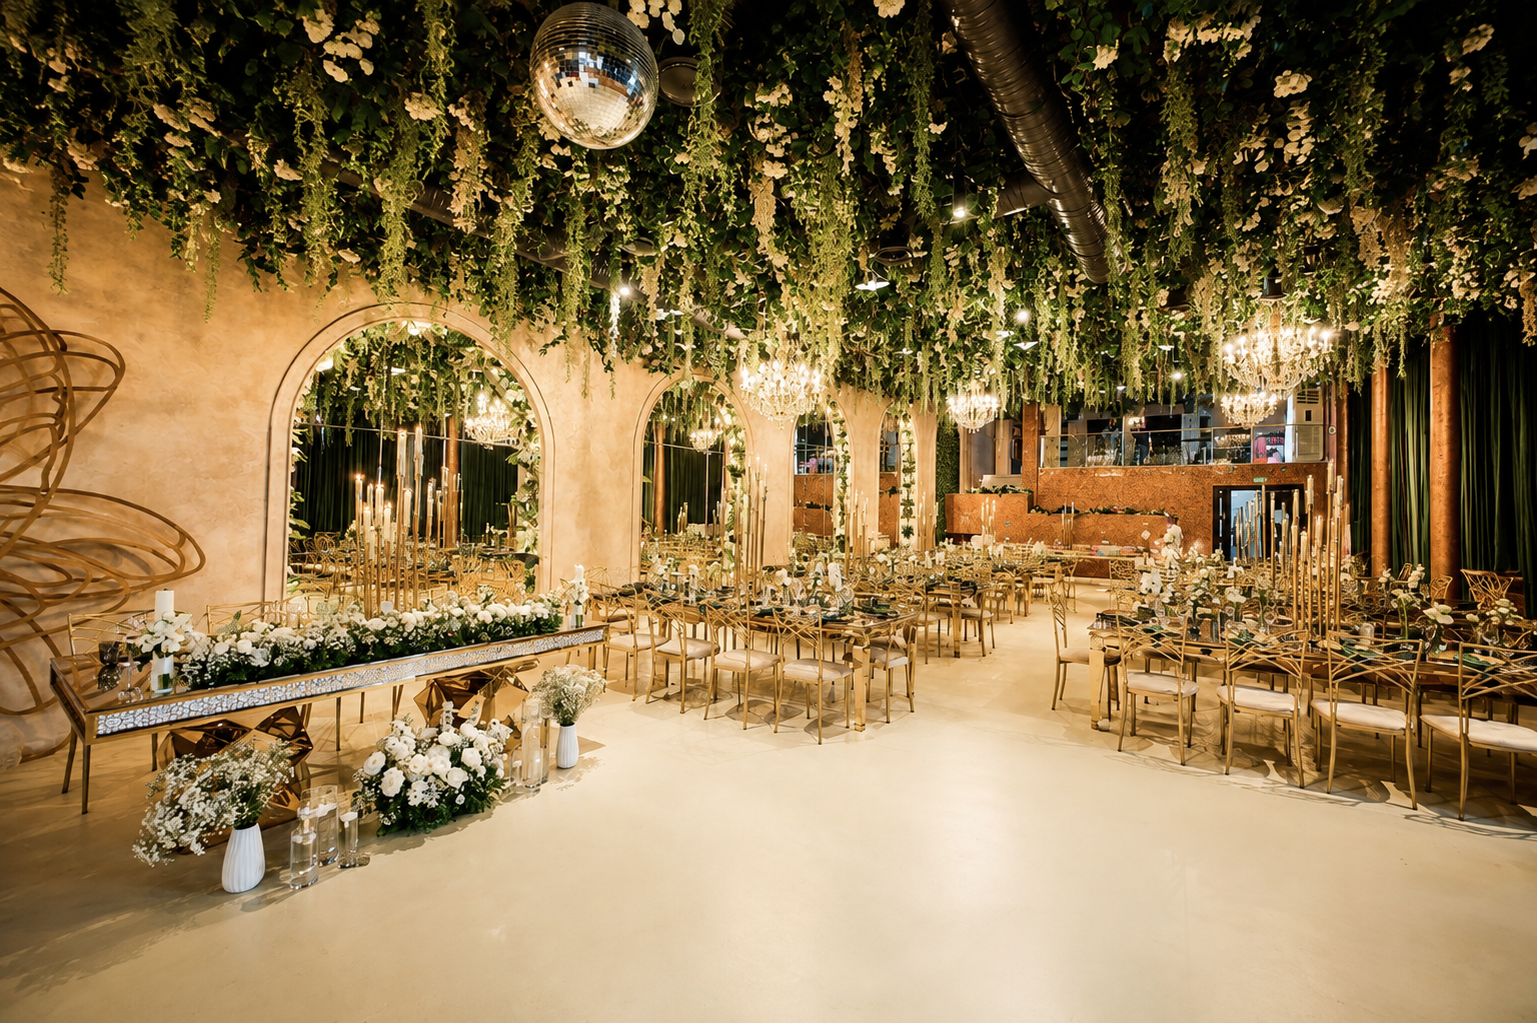
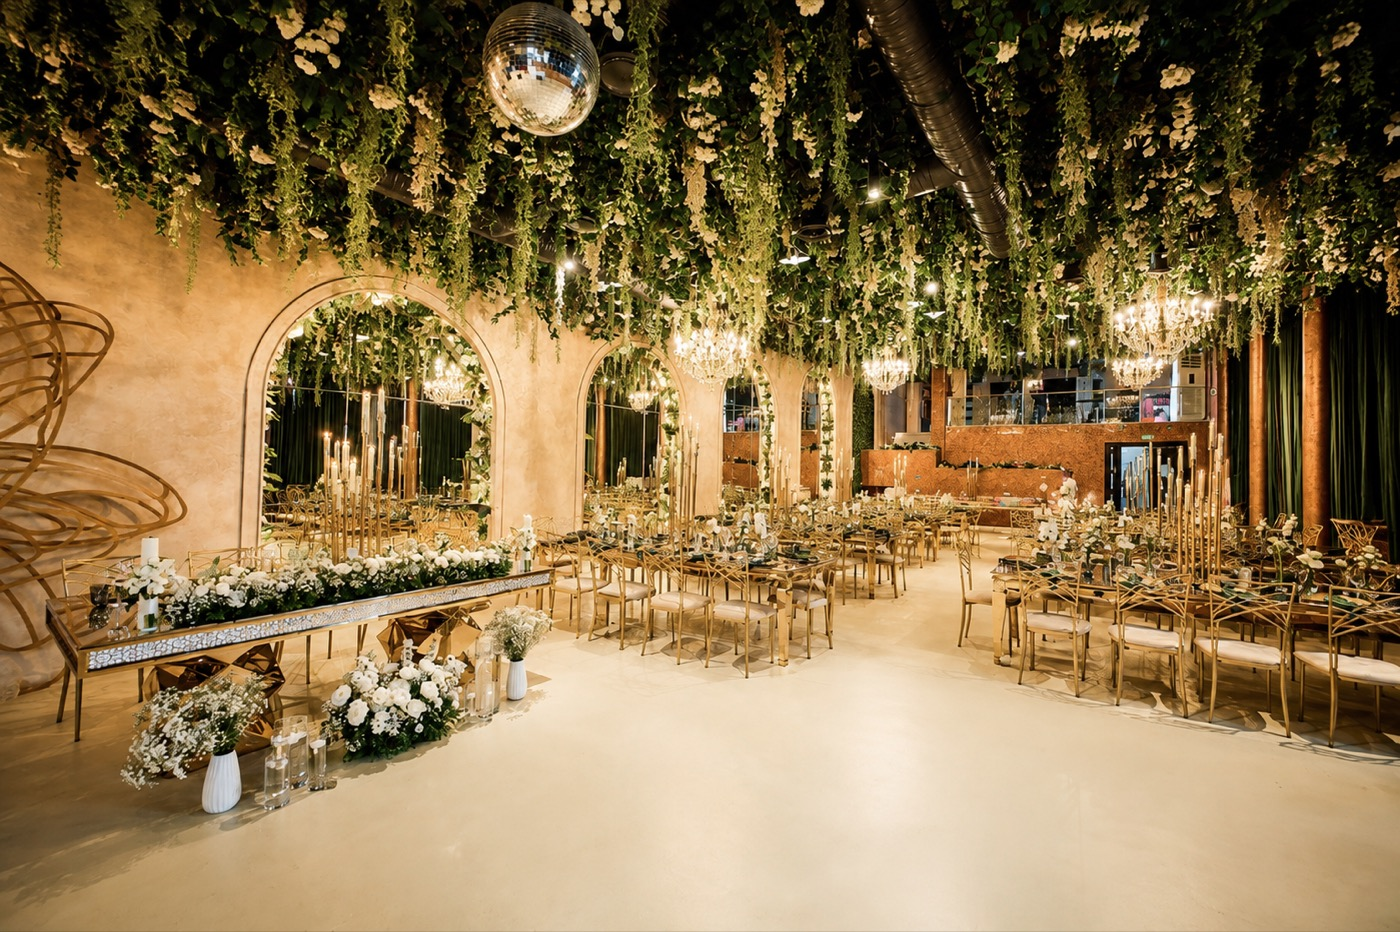
Add RSVP anti-spam hardening and optimize images
Add server-side rate limiting (Apps Script CacheService) and client-side
bot-timing/double-submit guards to the RSVP form. Resize and recompress
oversized phone-camera and venue photos for faster page loads, drop
unused/duplicate image files, and gitignore local backups/OS junk.

diff --git a/index.html b/index.html
@@ -2420,20 +2420,32 @@
 
     /* ── RSVP submit ───────────────────────────────────────────────── */
     const SCRIPT_URL = 'https://script.google.com/macros/s/AKfycbxOzxZ29pX5s_7_CJiXkMKlhlHy5I9WxGooZbwUzi0UtVoppk4ncjpB6rXnOw0gSQ3m/exec';
+    const formRenderedAt = Date.now();
+
+    function showSilentSuccess(form) {
+      document.getElementById('rsvpHeader').style.display = 'none';
+      form.style.display = 'none';
+      const s = document.getElementById('formSuccess');
+      s.style.display = 'block';
+      s.scrollIntoView({ behavior: 'smooth', block: 'center' });
+    }
 
     document.getElementById('rsvpForm').addEventListener('submit', async function (e) {
       e.preventDefault();
+
+      const btn = this.querySelector('.submit-btn');
+      if (btn.disabled) return; // already submitting — ignore double-clicks/duplicate events
+      btn.disabled = true;
 
       // Honeypot: real visitors never see or fill this field. If it has a
       // value, silently "succeed" without sending anything, so bots don't
       // learn to look for a different tell.
       const honeypot = document.getElementById('website').value.trim();
-      if (honeypot) {
-        document.getElementById('rsvpHeader').style.display = 'none';
-        this.style.display = 'none';
-        const s = document.getElementById('formSuccess');
-        s.style.display = 'block';
-        s.scrollIntoView({ behavior: 'smooth', block: 'center' });
+      // Scripted bots that fill and submit the form near-instantly (no
+      // rendering/reading delay) get the same silent no-op treatment.
+      const submittedTooFast = (Date.now() - formRenderedAt) < 1500;
+      if (honeypot || submittedTooFast) {
+        showSilentSuccess(this);
         return;
       }
 
@@ -2441,9 +2453,12 @@
       const ln = sanitizeLine(document.getElementById('lastName').value, 80);
       const em = sanitizeLine(document.getElementById('email').value, 120).toLowerCase();
       const at = whitelist(document.getElementById('attendance').value, ['yes', 'no'], '');
-      if (!fn || !ln || !em || !at || !isValidEmail(em)) { alert(T[lang].reqAlert); return; }
+      if (!fn || !ln || !em || !at || !isValidEmail(em)) {
+        alert(T[lang].reqAlert);
+        btn.disabled = false;
+        return;
+      }
 
-      const btn = this.querySelector('.submit-btn');
       btn.classList.add('loading');
       btn.textContent = T[lang].submittingBtn;
 
